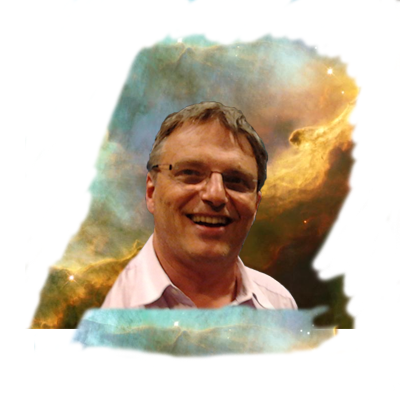
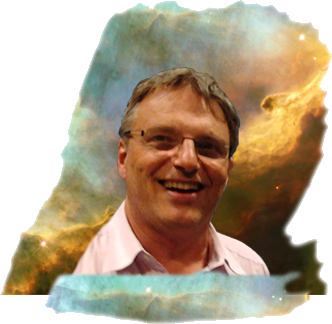
added styling + re-formatted images

diff --git a/src/styles/Speaker.module.scss b/src/styles/Speaker.module.scss
@@ -1,6 +1,13 @@
 @import "fonts";
 @import "variables";
 
+:root {
+  --img-size: 250px;
+
+  @media screen and (max-width: $screen-desktop) {
+    --img-size: 200px;
+  }
+}
 main {
   padding-block:2em;
   padding-inline: 3em;
@@ -12,6 +19,7 @@ main {
   gap:1em;
   font-size: 1em;
   font-family: $orbitron;
+  flex-wrap: wrap;
   //max-width: ;
 
   >:has(> p) {
@@ -21,10 +29,26 @@ main {
 
     p {
       max-width: 15ch;
+      word-break: break-word;
+    }
+
+    p:nth-child(2),p:nth-child(3) {
+      font-family: $quicksand;
     }
   }
 
   img {
+    position:absolute;
+    border-radius: 15px;
+    width: var(--img-size);
+    height:auto;
+  }
+
+  .imgDiv {
+    width: var(--img-size);
+    height: var(--img-size);
+    overflow: hidden;
+    position:relative;
     border-radius: 15px;
   }
 }

diff --git a/src/styles/speakers.module.scss b/src/styles/speakers.module.scss
@@ -16,14 +16,33 @@ div:has(>.yearButton) {
   gap:0.5em;
 }
 
+div:has(>.speakers) {
+  display: flex;
+  justify-content: center;
+}
+
 .speakers {
   display: grid;
   grid-template-columns: 1fr 1fr;
-  gap:1em;
-  //justify-content: center;
+  gap:4em;
+  justify-content: center;
+
+  @media screen and (max-width: $screen-desktop) {
+    //display: flex;
+    //flex-direction: column;
+    //align-items: center;
+    grid-template-columns: 1fr;
+  }
 }
 
 h2 {
   font-size: 4em;
   text-align: center;
+  margin-bottom: .3em;
+}
+
+.yearSections {
+  display:flex;
+  flex-direction: column;
+  gap:2em;
 }
